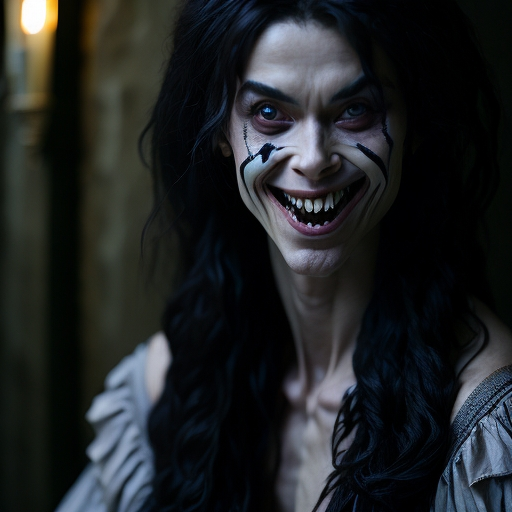
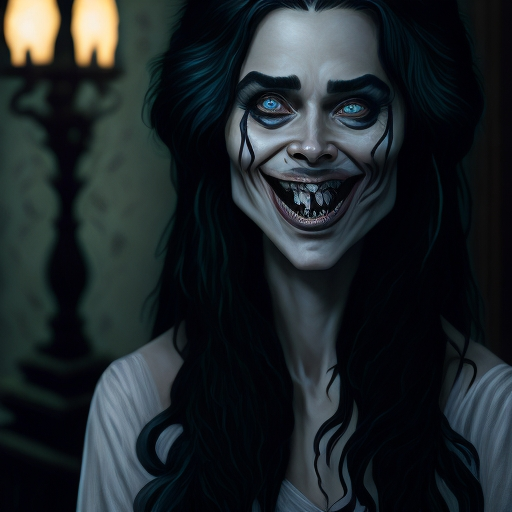
add model-list.json and generated image

diff --git a/main.py b/main.py
@@ -106,13 +106,3 @@ def validate_and_download_image():
         validate_and_download_image()
 
 validate_and_download_image()
-
-# blob:https://app.leonardo.ai/06abe66c-57a5-4873-968c-6cc2b3d2822e
-
-# print(response.text) output
-# {"sdGenerationJob":{"generationId":"17f2f6d5-e446-4f28-825a-8e67eac78885","apiCreditCost":9}}
-# {"generations_by_pk":{"generated_images":[{"url":"https://cdn.leonardo.ai/users/bab93ae3-e56c-4426-9051-e2f4582130d5/generations/17f2f6d5-e446-4f28-825a-8e67eac78885/Default_A_mysterious_phantom_lurking_in_the_darkness_its_eerie_0.jpg","nsfw":false,"id":"9d9514f5-3c4d-4a21-8870-c70cd7f61da1","likeCount":0,"motionMP4URL":null,"generated_image_variation_generics":[]}],"modelId":"b820ea11-02bf-4652-97ae-9ac0cc00593d","motion":null,"motionModel":null,"motionStrength":null,"prompt":"A mysterious phantom lurking in the darkness, its eerie grin sending shivers down your spine. As it emerges from the shadows, revealing its ghostly form, you can see translucent wisps of hair framing its spectral face. This chilling image, most likely a haunting painting, captures the essence of fear and intrigue. The details are so vivid, from the ghostly pallor of its skin to the malevolent glint in its eyes, that you can almost feel its icy breath on your neck. This high-quality depiction is sure to captivate and unsettle anyone who dares to gaze upon it. finally, recolor to black and white and present the red eyes and black mouth.","negativePrompt":"","imageHeight":512,"imageToVideo":null,"imageWidth":512,"inferenceSteps":30,"seed":360416256,"public":false,"scheduler":"EULER_DISCRETE","sdVersion":"v2","status":"COMPLETE","presetStyle":"CINEMATIC","initStrength":0.2,"guidanceScale":7,"id":"17f2f6d5-e446-4f28-825a-8e67eac78885","createdAt":"2024-04-20T14:33:28.258","promptMagic":false,"promptMagicVersion":null,"promptMagicStrength":null,"photoReal":false,"photoRealStrength":null,"fantasyAvatar":null,"generation_elements":[]}}
-# {"delete_init_images_by_pk":{"id":"7de31099-6f41-4557-b908-356a91b49ef0"}}
-
-# download json example
-# {"generations":[{"generated_images":[{"url":"https://cdn.leonardo.ai/users/bab93ae3-e56c-4426-9051-e2f4582130d5/generations/17f2f6d5-e446-4f28-825a-8e67eac78885/Default_A_mysterious_phantom_lurking_in_the_darkness_its_eerie_0.jpg","nsfw":false,"id":"9d9514f5-3c4d-4a21-8870-c70cd7f61da1","likeCount":0,"motionMP4URL":null,"generated_image_variation_generics":[]}],"modelId":"b820ea11-02bf-4652-97ae-9ac0cc00593d","motion":null,"motionModel":null,"motionStrength":null,"prompt":"A mysterious phantom lurking in the darkness, its eerie grin sending shivers down your spine. As it emerges from the shadows, revealing its ghostly form, you can see translucent wisps of hair framing its spectral face. This chilling image, most likely a haunting painting, captures the essence of fear and intrigue. The details are so vivid, from the ghostly pallor of its skin to the malevolent glint in its eyes, that you can almost feel its icy breath on your neck. This high-quality depiction is sure to captivate and unsettle anyone who dares to gaze upon it. finally, recolor to black and white and present the red eyes and black mouth.","negativePrompt":"","imageHeight":512,"imageToVideo":null,"imageWidth":512,"inferenceSteps":30,"seed":360416256,"public":false,"scheduler":"EULER_DISCRETE","sdVersion":"v2","status":"COMPLETE","presetStyle":"CINEMATIC","initStrength":0.2,"guidanceScale":7,"id":"17f2f6d5-e446-4f28-825a-8e67eac78885","createdAt":"2024-04-20T14:33:28.258","promptMagic":false,"promptMagicVersion":null,"promptMagicStrength":null,"photoReal":false,"photoRealStrength":null,"fantasyAvatar":null,"generation_elements":[]}]}

diff --git a/validate_image.py b/validate_image.py
@@ -33,5 +33,5 @@ def IsValidImage(generationId):
 
 
 if __name__ == '__main__':
-    IsValidImage(sys.argv[1:])
+    IsValidImage(sys.argv)
     pass
